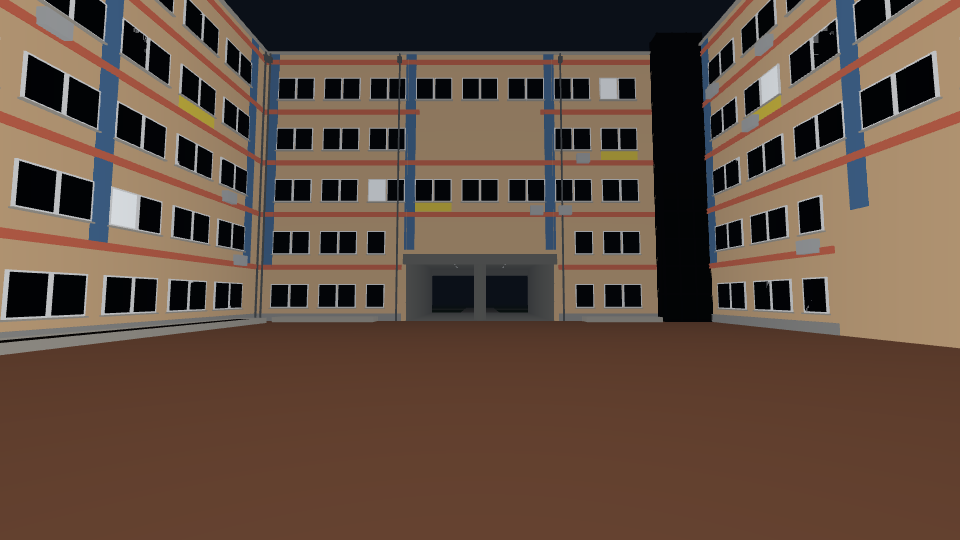
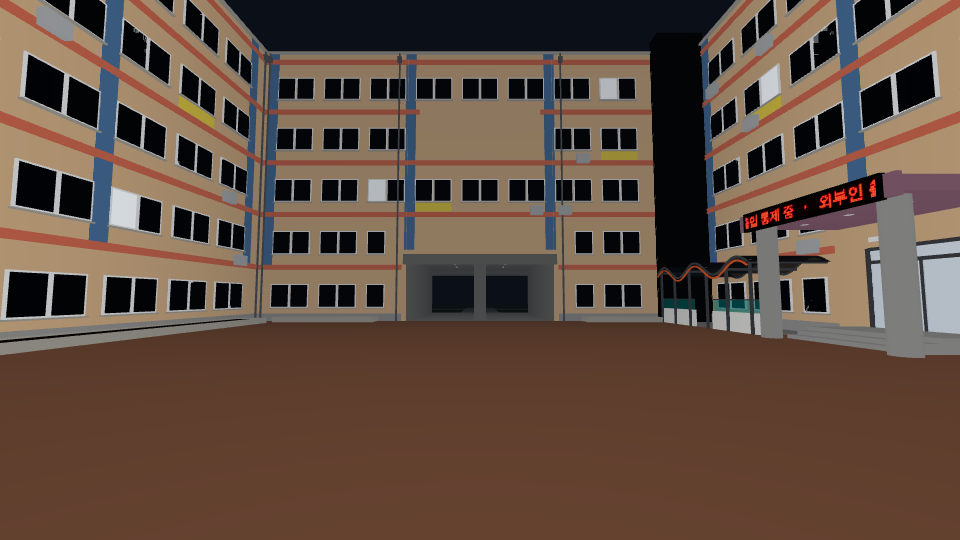
S5: 현관 캐노피·화강암 기둥·유리 자동문·카드 리더기·계단, 붉은 LED 전광판, 파도 지붕 통로
Claude-Session: https://claude.ai/code/session_01PbAFjroLPPPYs6SSpPc91i

Changed region(s): [[0.6875, 0.2963, 1.0, 0.6815]]

diff --git a/src/world/entrance.js b/src/world/entrance.js
@@ -1,0 +1,144 @@
+import * as THREE from 'three';
+import { DIM, SCHOOL_NAME } from '../config.js';
+import { addBlock, addBox, addPlane, instanced, mat4 } from './geom.js';
+import { LedSign } from './ledSign.js';
+
+// 동쪽 날개 현관: 자주빛 캐노피, 화강암 원기둥 2개, 유리 자동문, 카드 리더기, 계단 3단, 붉은 LED 전광판
+export function buildEntrance(root, M, col) {
+  const g = new THREE.Group();
+  g.name = 'entrance';
+  root.add(g);
+  const C = DIM.canopy;
+  const S = DIM.steps;
+  const wx = DIM.innerX;
+  const zc = (C.z0 + C.z1) / 2;
+
+  // 캐노피 슬래브 + 처마 테두리
+  addBlock(g, M.canopy, C.x0, C.colH, C.z0, wx, C.colH + C.thick, C.z1);
+  addBlock(g, M.canopy, C.x0 - 0.06, C.colH - 0.12, C.z0 - 0.06, C.x0 + 0.1, C.colH + C.thick + 0.08, C.z1 + 0.06);
+  // 캐노피 하부 다운라이트 (발광만)
+  const downs = [];
+  for (const z of [C.z0 + 1.2, zc, C.z1 - 1.2]) downs.push(mat4(C.x0 + 1.6, C.colH - 0.01, z, 0, 1, 1, 1, Math.PI / 2));
+  g.add(instanced(new THREE.CircleGeometry(0.13, 16), M.downLight ?? M.frame, downs, { cast: false, receive: false }));
+
+  // 둥근 화강암 기둥 2개
+  const colGeo = new THREE.CylinderGeometry(C.colD / 2, C.colD / 2, C.colH, 28);
+  for (const z of [C.z0 + 0.6, C.z1 - 0.6]) {
+    const m = new THREE.Mesh(colGeo, M.granite);
+    m.position.set(C.x0 + 0.55, C.colH / 2, z);
+    m.castShadow = m.receiveShadow = true;
+    g.add(m);
+    col.circle(C.x0 + 0.55, z, C.colD / 2);
+  }
+
+  // 계단 3단 + 층계참 (화강암)
+  for (let i = 0; i < S.count; i++) {
+    const x0 = S.x0 + i * S.tread;
+    const h = (i + 1) * S.rise;
+    addBlock(g, M.granite, x0, 0, S.z0 - 0.2, wx, h, S.z1 + 0.2);
+    col.floor(x0, S.z0 - 0.2, wx, S.z1 + 0.2, h);
+  }
+  col.surface(S.x0, S.z0 - 0.2, wx, S.z1 + 0.2, 'stone');
+  col.surface(C.x0, C.z0, wx, C.z1, 'stone');
+
+  // 유리 자동문: 은색 프레임 + 청백색으로 새어 나오는 실내광
+  const doorY = S.count * S.rise;
+  const dz0 = S.z0 + 0.3;
+  const dz1 = S.z1 - 0.3;
+  const dw = dz1 - dz0;
+  addBlock(g, M.silver, wx - 0.12, doorY, dz0 - 0.12, wx + 0.02, doorY + 3.0, dz0, { cast: false });
+  addBlock(g, M.silver, wx - 0.12, doorY, dz1, wx + 0.02, doorY + 3.0, dz1 + 0.12, { cast: false });
+  addBlock(g, M.silver, wx - 0.12, doorY + 2.4, dz0, wx + 0.02, doorY + 2.52, dz1, { cast: false });
+  addBlock(g, M.silver, wx - 0.12, doorY + 2.9, dz0, wx + 0.02, doorY + 3.02, dz1, { cast: false });
+  addBlock(g, M.silver, wx - 0.1, doorY, (dz0 + dz1) / 2 - 0.03, wx + 0.0, doorY + 2.4, (dz0 + dz1) / 2 + 0.03, { cast: false });
+  const door = new THREE.Mesh(new THREE.PlaneGeometry(dw, 2.4), M.door);
+  door.rotation.y = -Math.PI / 2;
+  door.position.set(wx - 0.05, doorY + 1.2, (dz0 + dz1) / 2);
+  g.add(door);
+  const transom = new THREE.Mesh(new THREE.PlaneGeometry(dw, 0.38), M.door);
+  transom.rotation.y = -Math.PI / 2;
+  transom.position.set(wx - 0.05, doorY + 2.71, (dz0 + dz1) / 2);
+  g.add(transom);
+
+  // 카드 리더기 + 초록 비상구 표지
+  addBox(g, M.black, 0.06, 0.2, 0.13, wx - 0.03, doorY + 1.25, dz1 + 0.45, { cast: false });
+  addBox(g, M.readerLed ?? M.exitSign ?? M.frame, 0.07, 0.025, 0.04, wx - 0.03, doorY + 1.41, dz1 + 0.45, { cast: false });
+  addBox(g, M.exitSign ?? M.frame, 0.05, 0.18, 0.46, wx - 0.03, doorY + 3.25, dz0 + 0.2, { cast: false });
+
+  // 붉은 LED 전광판 (캐노피 정면, 가로로 긴 검은 패널)
+  const sign = new LedSign({
+    cols: 150, rows: 14, width: 5.2, height: 0.5,
+    lines: [`${SCHOOL_NAME}   ·   야간 출입 통제 중   ·   외부인 출입 금지   ·   22:47   ·   `], speeds: [11],
+  });
+  sign.group.rotation.y = -Math.PI / 2;
+  sign.group.position.set(C.x0 - 0.14, C.colH + C.thick / 2 - 0.02, zc);
+  g.add(sign.group);
+
+  return {
+    sign,
+    signPos: new THREE.Vector3(C.x0 - 0.3, C.colH + 0.2, zc),
+    lightPos: new THREE.Vector3(wx - 0.9, doorY + 2.0, (dz0 + dz1) / 2),
+  };
+}
+
+// 현관 왼쪽(북쪽) 파도형 지붕 통로: 사인 곡선 반투명 지붕 + 은색 프레임 + 주황 띠 + 흰 낮은 벽 + 청록 유리 띠
+export function buildWaveCorridor(root, M, col) {
+  const g = new THREE.Group();
+  g.name = 'waveCorridor';
+  root.add(g);
+  const W = DIM.wave;
+  const len = W.z1 - W.z0;
+  const xo = W.x0 - 0.2; // 바깥 모서리
+  const yAt = (z) => W.h + W.amp * Math.sin(((z - W.z0) / len) * W.waves * 2 * Math.PI);
+
+  // 지붕 (z 방향으로 사인 변위)
+  const roofGeo = new THREE.PlaneGeometry(W.x1 - xo + 0.3, len, 1, 80);
+  roofGeo.rotateX(-Math.PI / 2);
+  const p = roofGeo.attributes.position;
+  for (let i = 0; i < p.count; i++) p.setY(i, yAt(p.getZ(i) + (W.z0 + W.z1) / 2));
+  roofGeo.translate((xo + W.x1) / 2 - 0.15, 0, (W.z0 + W.z1) / 2);
+  roofGeo.computeVertexNormals();
+  const roof = new THREE.Mesh(roofGeo, M.waveRoof);
+  roof.castShadow = true;
+  roof.receiveShadow = true;
+  g.add(roof);
+
+  // 은색 금속 프레임 (곡선 테두리) + 주황 띠
+  const curve = (x, dy) => {
+    const pts = [];
+    for (let z = W.z0; z <= W.z1 + 0.001; z += 0.15) pts.push(new THREE.Vector3(x, yAt(z) + dy, z));
+    return new THREE.CatmullRomCurve3(pts);
+  };
+  for (const [x, dy, r, mat] of [[xo - 0.3, -0.05, 0.06, M.silver], [W.x1 - 0.05, -0.05, 0.05, M.silver], [xo - 0.3, -0.22, 0.05, M.orange]]) {
+    const t = new THREE.Mesh(new THREE.TubeGeometry(curve(x, dy), 140, r, 6), mat);
+    t.castShadow = true;
+    g.add(t);
+  }
+
+  // 기둥 + 보
+  const posts = [];
+  const beams = [];
+  const n = 5;
+  for (let i = 0; i <= n; i++) {
+    const z = W.z0 + 0.2 + ((len - 0.4) * i) / n;
+    const h = yAt(z);
+    posts.push(mat4(xo - 0.15, h / 2, z, 0, 1, h, 1));
+    beams.push(mat4((xo + W.x1) / 2 - 0.1, h - 0.12, z, 0, W.x1 - xo + 0.2, 1, 1));
+    col.circle(xo - 0.15, z, 0.1);
+  }
+  g.add(instanced(new THREE.CylinderGeometry(0.075, 0.075, 1, 10), M.silver, posts));
+  g.add(instanced(new THREE.BoxGeometry(1, 0.12, 0.08), M.silver, beams));
+
+  // 흰 낮은 벽 + 청록 유리 띠 (가운데 출입 틈)
+  const gap0 = W.z0 + len * 0.42;
+  const gap1 = gap0 + 1.8;
+  for (const [a, b] of [[W.z0, gap0], [gap1, W.z1]]) {
+    addBlock(g, M.whiteWall, xo - 0.1, 0, a, xo + 0.12, 0.9, b);
+    addBlock(g, M.teal, xo - 0.03, 0.9, a, xo + 0.05, 1.45, b, { cast: false });
+    addBlock(g, M.silver, xo - 0.05, 1.45, a, xo + 0.07, 1.5, b);
+    col.box(xo - 0.1, a, xo + 0.12, b);
+  }
+  addPlane(g, M.concrete, W.x1 - xo, len, (xo + W.x1) / 2, 0.004, (W.z0 + W.z1) / 2, 2);
+  col.surface(xo, W.z0, W.x1, W.z1, 'concrete');
+  return { yAt };
+}

diff --git a/src/world/ledSign.js b/src/world/ledSign.js
@@ -1,0 +1,106 @@
+import * as THREE from 'three';
+import { rng } from './geom.js';
+
+// 붉은 점광 LED 전광판. 글자를 저해상도 비트맵으로 래스터화한 뒤 점(dot) 격자로 그려 스크롤한다.
+export class LedSign {
+  constructor({ cols, rows, width, height, lines, speeds, dotPx = 6, glow = 2.6 }) {
+    this.cols = cols;
+    this.rows = rows;
+    this.lines = lines.map((text, i) => this.rasterize(text, Math.floor(rows / lines.length)));
+    this.speeds = speeds ?? lines.map(() => 9);
+    this.dotPx = dotPx;
+    this.canvas = document.createElement('canvas');
+    this.canvas.width = cols * dotPx;
+    this.canvas.height = rows * dotPx;
+    this.ctx = this.canvas.getContext('2d');
+    this.tex = new THREE.CanvasTexture(this.canvas);
+    this.tex.colorSpace = THREE.SRGBColorSpace;
+    this.tex.anisotropy = 4;
+    this.mat = new THREE.MeshBasicMaterial({ map: this.tex, color: new THREE.Color(glow, glow, glow) });
+    this.baseGlow = glow;
+
+    this.group = new THREE.Group();
+    const back = new THREE.Mesh(new THREE.BoxGeometry(width + 0.24, height + 0.24, 0.16),
+      new THREE.MeshStandardMaterial({ color: 0x050505, roughness: 0.5, metalness: 0.3 }));
+    back.position.z = -0.08;
+    back.castShadow = true;
+    const face = new THREE.Mesh(new THREE.PlaneGeometry(width, height), this.mat);
+    face.position.z = 0.002;
+    this.group.add(back, face);
+
+    this.glitchUntil = 0;
+    this.lastDraw = -1;
+    this.offsets = this.lines.map(() => 0);
+    this.light = null; // 외부에서 붙이는 붉은 PointLight
+    this.onGlitch = null;
+    this.draw(0);
+  }
+
+  rasterize(text, h) {
+    const c = document.createElement('canvas');
+    const ctx = c.getContext('2d');
+    const font = `bold ${h}px "Malgun Gothic", "Apple SD Gothic Neo", "Noto Sans KR", sans-serif`;
+    ctx.font = font;
+    const w = Math.ceil(ctx.measureText(text).width) + 2;
+    c.width = w;
+    c.height = h;
+    ctx.font = font;
+    ctx.fillStyle = '#fff';
+    ctx.textBaseline = 'middle';
+    ctx.fillText(text, 1, h / 2 + 1);
+    const data = ctx.getImageData(0, 0, w, h).data;
+    const bits = new Uint8Array(w * h);
+    for (let i = 0; i < w * h; i++) bits[i] = data[i * 4 + 3] > 110 ? 1 : 0;
+    return { bits, w: w + this.cols, srcW: w, h };
+  }
+
+  glitch(now, dur) {
+    this.glitchUntil = now + dur;
+  }
+
+  get glitching() {
+    return this.lastT < this.glitchUntil;
+  }
+
+  update(t) {
+    this.lastT = t;
+    // 20fps 로 다시 그림, 글리치 중에는 상태를 0.4초 단위로만 바꿔 깜빡임을 초당 3회 미만으로 유지
+    if (t - this.lastDraw < 0.05) return;
+    this.lastDraw = t;
+    this.draw(t);
+    if (this.light) {
+      const g = t < this.glitchUntil ? 0.6 : 1;
+      this.light.intensity = this.light.userData.base * g;
+    }
+  }
+
+  draw(t) {
+    const { ctx, cols, rows, dotPx: d } = this;
+    const glitch = t < this.glitchUntil;
+    const R = glitch ? rng(Math.floor(t / 0.4) * 977 + 3) : null;
+    ctx.fillStyle = '#000';
+    ctx.fillRect(0, 0, cols * d, rows * d);
+    const lineH = Math.floor(rows / this.lines.length);
+    const drop = new Uint8Array(cols);
+    let shift = 0;
+    if (glitch) {
+      for (let c = 0; c < cols; c++) drop[c] = R() < 0.32 ? 1 : 0;
+      shift = Math.floor(R() * 40) - 20;
+    }
+    for (let li = 0; li < this.lines.length; li++) {
+      const L = this.lines[li];
+      const off = Math.floor(t * this.speeds[li]) + (glitch && li === 0 ? shift : 0);
+      for (let r = 0; r < lineH; r++) {
+        const y = (li * lineH + r) * d;
+        for (let c = 0; c < cols; c++) {
+          let sx = (((c + off) % L.w) + L.w) % L.w;
+          if (glitch && R() < 0.04) sx = (sx + 37) % L.w; // 일부 글자 뒤바뀜
+          const on = sx < L.srcW && L.bits[r * L.srcW + sx] && !drop[c];
+          ctx.fillStyle = on ? '#ff3b1f' : '#1c0503';
+          ctx.fillRect(c * d + 1, y + 1, d - 2, d - 2);
+        }
+      }
+    }
+    this.tex.needsUpdate = true;
+  }
+}

diff --git a/src/world/world.js b/src/world/world.js
@@ -2,6 +2,7 @@ import * as THREE from 'three';
 import { createMaterials } from '../materials/library.js';
 import { buildCourtyard } from './courtyard.js';
 import { buildBuildings } from './buildings.js';
+import { buildEntrance, buildWaveCorridor } from './entrance.js';
 
 // 월드 조립. 각 빌더는 (root, M, collision, ctx) 를 받고 필요한 핸들을 돌려준다.
 export function buildWorld(scene, col) {
@@ -12,7 +13,10 @@ export function buildWorld(scene, col) {
   const ctx = { M };
   ctx.yard = buildCourtyard(root, M, col);
   ctx.bld = buildBuildings(root, M, col);
+  ctx.entrance = buildEntrance(root, M, col);
+  ctx.wave = buildWaveCorridor(root, M, col);
   const updaters = [];
+  updaters.push((t) => ctx.entrance.sign.update(t));
   return {
     M,
     ctx,

diff --git a/src/config.js b/src/config.js
@@ -133,8 +133,8 @@ export const FIGURE_WINDOW = 0; // LIT_WINDOWS 중 실루엣이 설 창
 export const SHOTS = [
   { name: '01_front_overview', pos: [0, 1.6, 12], yaw: 0, pitch: 4 },
   { name: '02_entrance_canopy', pos: [3.5, 1.6, 2.5], yaw: -62, pitch: 6 },
-  { name: '03_wave_corridor', pos: [7.5, 1.6, -1.5], yaw: -38, pitch: 4 },
+  { name: '03_wave_corridor', pos: [4.5, 1.6, -1], yaw: -50, pitch: 5 },
   { name: '04_piloti_green', pos: [0.5, 1.6, -6], yaw: 0, pitch: 3 },
-  { name: '05_look_up', pos: [-4, 1.6, -9.5], yaw: 10, pitch: 52 },
+  { name: '05_look_up', pos: [-3, 1.6, -7], yaw: 12, pitch: 42 },
   { name: '06_flashlight_wall', pos: [-12.6, 1.6, -2], yaw: 90, pitch: -6, flash: 1 },
 ];
